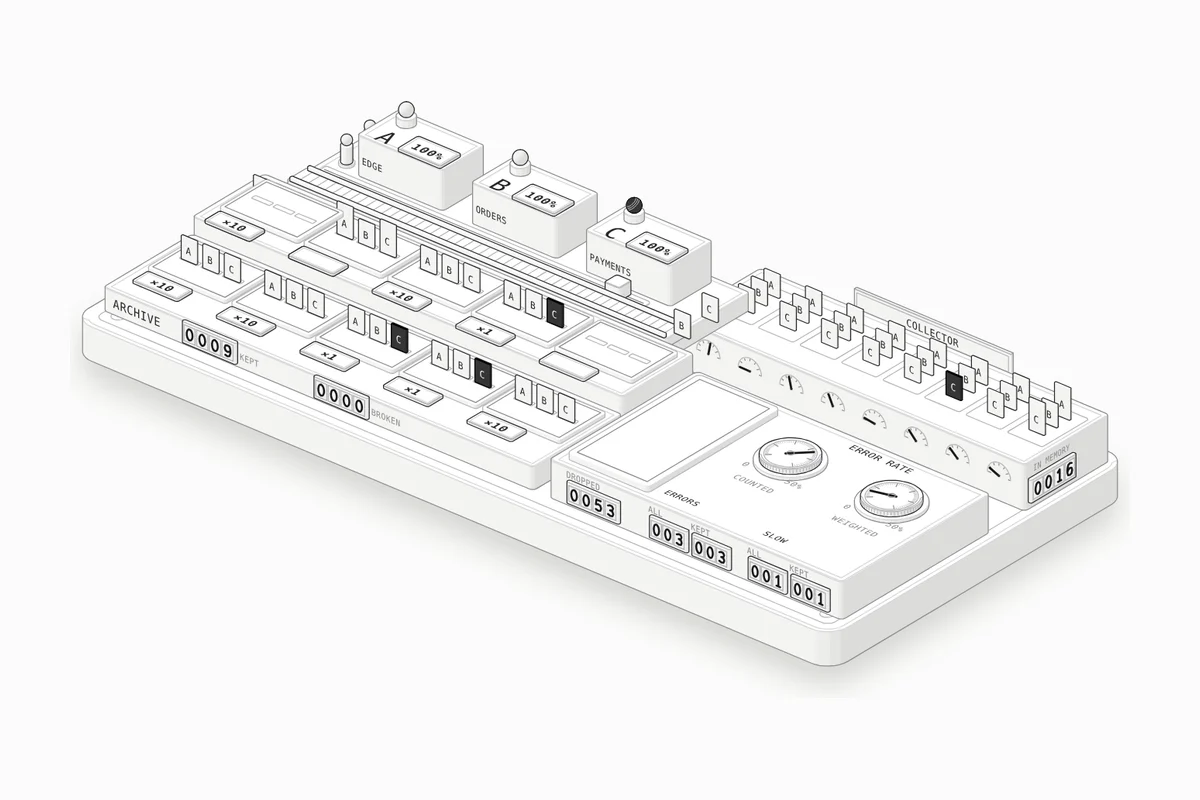
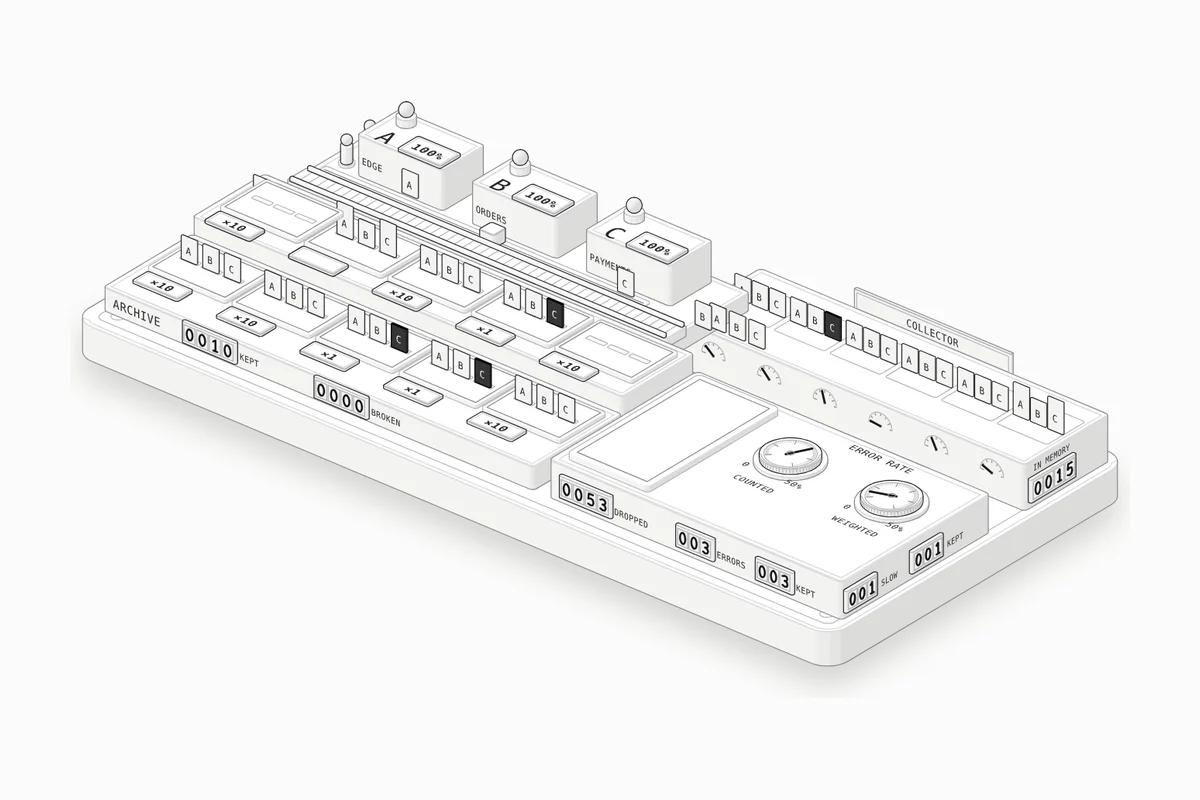
Lesson 73: clearer face text, one caption per counter, spaced rack
Every word on the machine uses the strong ink; each tally counter has one
caption beside its housing (the slow pair moves to the desk's right side);
the collector rack has six slots with a trace's cards side by side.

Claude-Session: https://claude.ai/code/session_01S5z2gCvevbrGU3fXgpGDmP

diff --git a/src/lessons/sampling/figure.ts b/src/lessons/sampling/figure.ts
@@ -40,10 +40,11 @@ export const BELT_Y = BELT.y + BELT.d / 2;            // -59
 // ---------- the collector, back right ----------
 const COLL = { x: 8, y: -96, w: 138, d: 40, r: 1.5 };
 export const COLL_H = 16;
-export const SLOTS = 8;
-export const SLOT_X = Array.from({ length: SLOTS }, (_, i) => 14 + i * 16.4);     // slot left edges
-const SLOT_W = 14;
-export const SLOT_YS = [-86, -80, -74];                // where a trace's cards stand in a slot (A behind, C in front)
+export const SLOTS = 6;
+export const SLOT_X = Array.from({ length: SLOTS }, (_, i) => 13 + i * 22);       // slot left edges
+const SLOT_W = 20;
+export const SLOT_CARD_X = [-6.8, 0, 6.8];             // a trace's cards stand side by side in its slot: A, B, C
+export const SLOT_CARD_Y = -78;
 const COLL_FRONT = COLL.y + COLL.d;                    // -56
 export const INLET = [COLL.x + 2, BELT_Y, BELT_H];
 
@@ -77,7 +78,7 @@ export const P = k.fitProjection(
 );
 
 const { S, L } = shorthand(P);
-const words = (x, y, z, w, size = 3, opts = {}) => faceText(P, [x, y, z], w, { size, tone: "mid", ...opts });
+const words = (x, y, z, w, size = 3, opts = {}) => faceText(P, [x, y, z], w, { size, tone: "hi", ...opts });
 
 function plate() {
   return basePlate(P, PLATE, { height: PLATE_H, foot: FOOT_H });
@@ -125,8 +126,8 @@ function belt() {
 function collectorSigns() {
   const z = COLL_H;
   const one = sign(P, { x: 46, y: COLL.y + 1.2, z, w: 62, h: 7.5, text: t("COLLECTOR", "COLECTOR"), size: 3.6, posts: false });
-  const two = sign(P, { x: 14, y: COLL.y + 1.2, z, w: 58, h: 7.5, text: t("COLLECTOR 1", "COLECTOR 1"), size: 3.6, posts: false })
-    + sign(P, { x: 82, y: COLL.y + 1.2, z, w: 58, h: 7.5, text: t("COLLECTOR 2", "COLECTOR 2"), size: 3.6, posts: false });
+  const two = sign(P, { x: 13, y: COLL.y + 1.2, z, w: 60, h: 7.5, text: t("COLLECTOR 1", "COLECTOR 1"), size: 3.6, posts: false })
+    + sign(P, { x: 81, y: COLL.y + 1.2, z, w: 60, h: 7.5, text: t("COLLECTOR 2", "COLECTOR 2"), size: 3.6, posts: false });
   return `<g data-signs="one">${one}</g><g data-signs="two" style="display:none">${two}</g>`;
 }
 function collector() {
@@ -134,15 +135,15 @@ function collector() {
   out.push(L(k.planOutline(k.insetPlan(COLL, 1.8), COLL_H, P), { tone: "faint" }));
   // the rack: one slot per trace waiting for its decision, each over a timer
   SLOT_X.forEach((x, i) => {
-    out.push(L(k.planOutline({ x, y: -90, w: SLOT_W, d: 22, r: 0.8 }, COLL_H, P), { tone: "lo" }));
+    out.push(L(k.planOutline({ x, y: -88, w: SLOT_W, d: 18, r: 0.8 }, COLL_H, P), { tone: "lo" }));
     out.push(`<g data-meter-wrap="${i}">${meterPart(x + SLOT_W / 2, i)}</g>`);
   });
   // the wall between the two collectors (shown with two)
-  out.push(`<g data-divider style="display:none">${S(k.slabOf({ x: 77.6, y: -92, w: 1.6, d: 30, r: 0.3 }, COLL_H, 6, P, 2), { tone: "hi", crease: "lo" })}</g>`);
+  out.push(`<g data-divider style="display:none">${S(k.slabOf({ x: 77.2, y: -92, w: 1.6, d: 30, r: 0.3 }, COLL_H, 6, P, 2), { tone: "hi", crease: "lo" })}</g>`);
   // IN MEMORY: traces held waiting for a decision, on the collector's right side
   const side = COLL.x + COLL.w;
   out.push(digitCounter(P, { x: side, y: COLL_FRONT - 4, z: 2.4, count: 4, w: 4.4, h: 6, gap: 0.6, pad: 1, face: "x", name: "held" }));
-  out.push(faceText(P, [side, COLL_FRONT - 4, 12.2], t("IN MEMORY", "EN MEMORIA"), { face: "x", size: 3, tone: "mid" }));
+  out.push(faceText(P, [side, COLL_FRONT - 4, 12.2], t("IN MEMORY", "EN MEMORIA"), { face: "x", size: 3, tone: "hi" }));
   return out.join("");
 }
 function meterPart(x, i) {
@@ -184,28 +185,26 @@ function desk() {
   out.push(L(k.planOutline(k.insetPlan(DESK, 2.2), DESK_H, P), { tone: "faint" }));
   // the bin: a well in the desk top that dropped cards fall into
   out.push(S(k.slabOf(BIN, DESK_H, 2.2, P, 3, 0.3), { tone: "lo", crease: "none", inner: L(k.planOutline(k.insetPlan(BIN, 2.2), DESK_H + 2.2, P), { tone: "mid" }) }));
-  const face = DESK.y + DESK.d;
-  out.push(digitCounter(P, { x: BIN.x + 4, y: face, z: 1.6, count: 4, w: 4.2, h: 5.4, gap: 0.6, pad: 1, name: "dropped" }));
-  out.push(words(BIN.x + 3, face, 9.6, t("DROPPED", "DESCARTADAS"), 3));
-  // each pair's heading lies on the desk top, along its front edge; the captions sit on the face above the wheels
-  const group = (x, head, all, kept, name) => {
-    const o = [faceText(P, [x - 0.6, face - 7, DESK_H], head, { face: "top", size: 3.4, tone: "hi" })];
-    o.push(digitCounter(P, { x: x + 0.6, y: face, z: 1.6, count: 3, w: 4, h: 5.4, gap: 0.5, pad: 1, name: name + "All" }));
-    o.push(words(x - 0.6, face, 9.6, all, 3));
-    o.push(digitCounter(P, { x: x + 17.4, y: face, z: 1.6, count: 3, w: 4, h: 5.4, gap: 0.5, pad: 1, name: name + "Kept" }));
-    o.push(words(x + 16.2, face, 9.6, kept, 3));
-    return o.join("");
-  };
-  out.push(group(DESK.x + 40, t("ERRORS", "ERRORES"), t("ALL", "TODOS"), t("KEPT", "GUARDADOS"), "err"));
-  out.push(group(DESK.x + 79, t("SLOW", "LENTAS"), t("ALL", "TODAS"), t("KEPT", "GUARDADAS"), "slow"));
+  const face = DESK.y + DESK.d, side = DESK.x + DESK.w;
+  // one caption per counter, on the same face, clear of its housing
+  out.push(digitCounter(P, { x: BIN.x + 1, y: face, z: 2.4, count: 4, w: 4.2, h: 5.6, gap: 0.6, pad: 1, name: "dropped" }));
+  out.push(words(BIN.x + 22, face, 3.6, t("DROPPED", "DESCARTADAS"), 3));
+  out.push(digitCounter(P, { x: DESK.x + 51, y: face, z: 2.4, count: 3, w: 4, h: 5.6, gap: 0.5, pad: 1, name: "errAll" }));
+  out.push(words(DESK.x + 66.4, face, 3.6, t("ERRORS", "ERRORES"), 3));
+  out.push(digitCounter(P, { x: DESK.x + 82.4, y: face, z: 2.4, count: 3, w: 4, h: 5.6, gap: 0.5, pad: 1, name: "errKept" }));
+  out.push(words(DESK.x + 97.8, face, 3.6, t("KEPT", "GUARDADOS"), 3));
+  out.push(digitCounter(P, { x: side, y: face - 3, z: 2.4, count: 3, w: 4, h: 5.6, gap: 0.5, pad: 1, face: "x", name: "slowAll" }));
+  out.push(faceText(P, [side, face - 18.4, 3.6], t("SLOW", "LENTAS"), { face: "x", size: 3, tone: "hi" }));
+  out.push(digitCounter(P, { x: side, y: face - 34, z: 2.4, count: 3, w: 4, h: 5.6, gap: 0.5, pad: 1, face: "x", name: "slowKept" }));
+  out.push(faceText(P, [side, face - 49.4, 3.6], t("KEPT", "GUARDADAS"), { face: "x", size: 3, tone: "hi" }));
   // the error-rate dials: what the archive says, counting its traces vs weighting each by its plaque (0 to 50%)
   const dz = DESK_H;
   for (const [i, x, label] of [[0, DESK.x + 57, t("COUNTED", "CONTADA")], [1, DESK.x + 97, t("WEIGHTED", "PONDERADA")]]) {
     out.push(dial(P, { x, y: DESK.y + 24, z: dz, r: 9.5, h: 3, ticks: 50, every: 10, from: -Math.PI * 0.75, span: Math.PI * 1.5, name: "rate" + i, value: 0 }));
-    out.push(faceText(P, [x, DESK.y + 42.5, dz], label, { face: "top", size: 3.4, tone: "mid", anchor: "middle" }));
+    out.push(faceText(P, [x, DESK.y + 42.5, dz], label, { face: "top", size: 3.4, tone: "hi", anchor: "middle" }));
     // the scale: 0 at the front left, 50% at the front right
     const r = 13.4, cy = DESK.y + 24;
-    for (const [a, v] of [[-0.75, "0"], [0.75, "50%"]]) out.push(faceText(P, [x + Math.sin(a * Math.PI) * r, cy - Math.cos(a * Math.PI) * r + 1.4, dz], v, { face: "top", size: 3.4, tone: "mid", anchor: "middle" }));
+    for (const [a, v] of [[-0.75, "0"], [0.75, "50%"]]) out.push(faceText(P, [x + Math.sin(a * Math.PI) * r, cy - Math.cos(a * Math.PI) * r + 1.4, dz], v, { face: "top", size: 3.4, tone: "hi", anchor: "middle" }));
   }
   out.push(faceText(P, [DESK.x + 77, DESK.y + 6.4, dz], t("ERROR RATE", "TASA DE ERROR"), { face: "top", size: 3.8, tone: "hi", anchor: "middle" }));
   return out.join("");
@@ -265,4 +264,4 @@ export function buildFigure() {
 }
 
 export const CARD_SPOTS = Array.from({ length: FOLDERS }, (_, i) => [0, 1, 2].map((s) => cardSpot(i, s)));
-export const GEOMETRY = { CARD_SPOTS, SX, TRACK_Y, ENTRY, BENCH_H, EMIT, BELT_Y, BELT_H, INLET, SLOTS, SLOT_X, SLOT_W, SLOT_YS, COLL_H, FOLDERS, BIN_SPOT, CARD };
+export const GEOMETRY = { CARD_SPOTS, SX, TRACK_Y, ENTRY, BENCH_H, EMIT, BELT_Y, BELT_H, INLET, SLOTS, SLOT_X, SLOT_W, SLOT_CARD_X, SLOT_CARD_Y, COLL_H, FOLDERS, BIN_SPOT, CARD };

diff --git a/src/lessons/sampling/live.ts b/src/lessons/sampling/live.ts
@@ -120,7 +120,7 @@ export default function mount({ P, G, CARD_SVG, TOKEN_SVG }, root) {
     return path[path.length - 1];
   };
   // a collector's rack slots: all 8 for one collector; 0–3 and 4–7 for two
-  const slotRange = (coll) => (cfg.mode === "tail" && cfg.coll !== "one" ? (coll === 0 ? [0, 4] : [4, 8]) : [0, 8]);
+  const slotRange = (coll) => (cfg.mode === "tail" && cfg.coll !== "one" ? (coll === 0 ? [0, G.SLOTS / 2] : [G.SLOTS / 2, G.SLOTS]) : [0, G.SLOTS]);
   function slotFor(part, tr) {
     if (partSlot.has(part)) return partSlot.get(part);
     const [lo, hi] = slotRange(part.coll);
@@ -216,7 +216,7 @@ export default function mount({ P, G, CARD_SVG, TOKEN_SVG }, root) {
         if (clock < s.decided) {
           const slot = slotFor(s.part, tr);
           if (slot < 0) continue;            // the rack is full: it waits inside the collector
-          want(tr, s.svc, [G.SLOT_X[slot] + G.SLOT_W / 2, G.SLOT_YS[s.svc], G.COLL_H], "rack", false);
+          want(tr, s.svc, [G.SLOT_X[slot] + G.SLOT_W / 2 + G.SLOT_CARD_X[s.svc], G.SLOT_CARD_Y, G.COLL_H], "rack", false);
           continue;
         }
         if (!s.kept && clock < s.decided + 1.4) {
